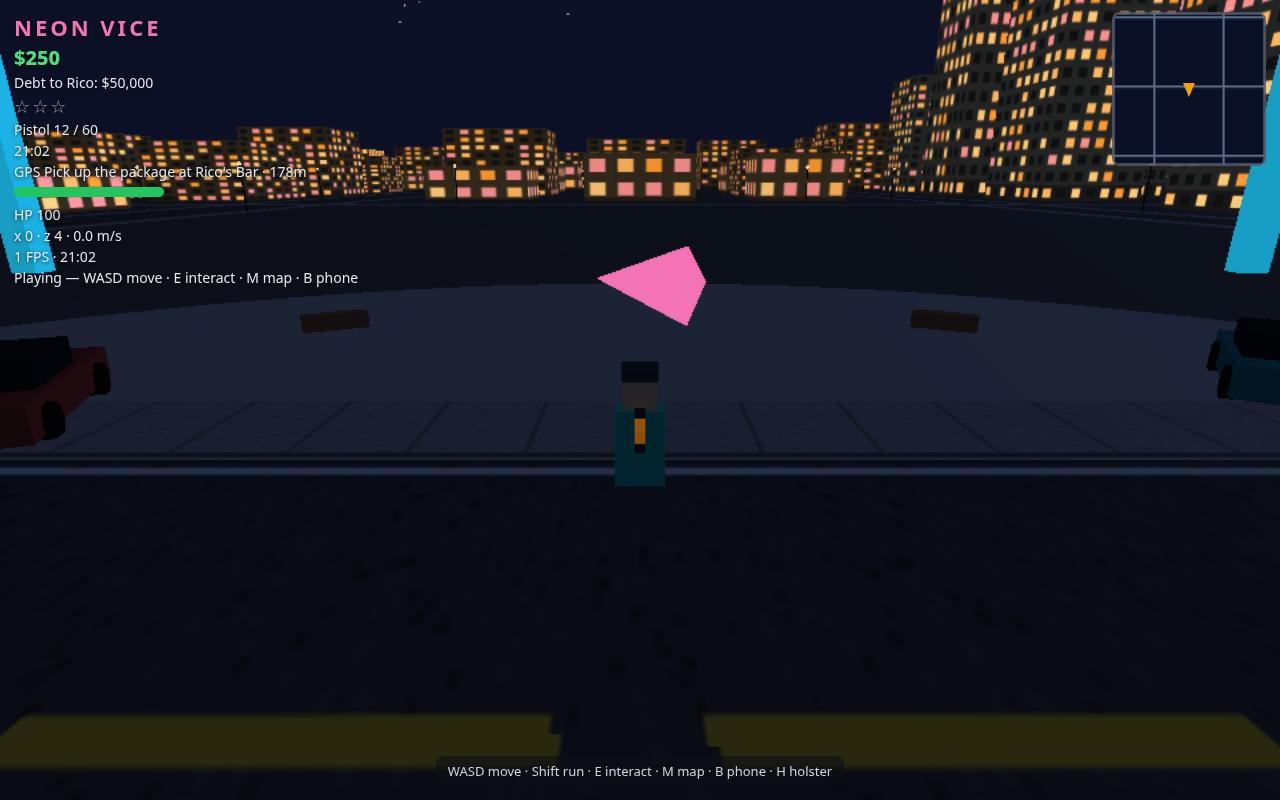
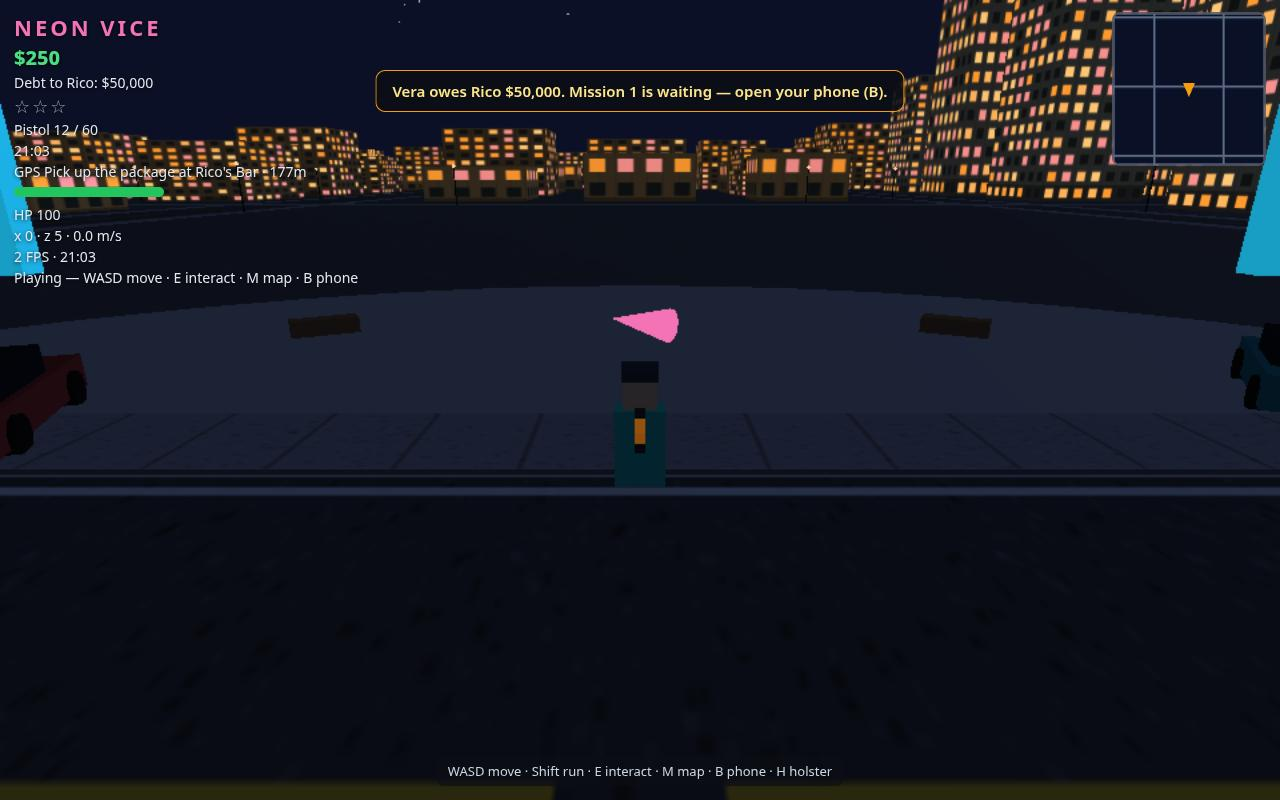
Builder E: fix mission-5 race trap, shop ammo at full reserve, touch hint, GPS arrow
- Mission 5: checkpoints moved onto road-graph nodes
  (300,0)->(300,-360)->(-300,-360)->(-300,240): a clean rectangle of
  90-degree turns. Mid-block checkpoints made findPath pick the node
  behind the car, forcing U-turns that wedged it against building
  corners ((42,-16), then (318,-296)); 5/5 passes now (was 2/5).
- Vehicles: footprint collision (centre + nose + tail, r=1.0) and a
  collision-checked turn, so a car can never swing its nose into a
  wall and freeze — the (318,-296) wedge mechanism.
- Shops: ammo at a full reserve is refused with no charge; a partial
  reserve sells only the rounds that fit at a proportional price
  (ceil, never undercharged).
- Touch: startGame no longer un-hides the WASD hint on touch devices
  (class stays + body.touch-device CSS !important); HUD state line
  gets touch wording. Verified hidden at 390x844 and at wide-touch
  1024x768, still shown on desktop.
- GPS arrow: slim 12-segment cone (r=0.22, h=0.9) at y=2.7 instead of
  the giant 4-segment diamond (r=0.5, h=1.4).
- Harness: driveTo stops following stale legs once the live target
  moves; missions scenario exits the boat after mission 8 so mission
  9's on-foot runner works (was a pre-existing 12/13).
- Dossier screenshots retaken (GPS arrow changed).
- Regression: 12 missions 13/13, 0 console errors; build exit 0.

diff --git a/game/src/vehicles.js b/game/src/vehicles.js
@@ -160,6 +160,25 @@ export function createVehicles(scene, world) {
     return best;
   }
 
+  // Car collision: the old single-point check (centre, r=1.4) let the car's
+  // nose/tail (2.3 m from the centre) penetrate a building face, so a car
+  // could sit with its centre in a free pocket 1-2 m from a building corner
+  // — e.g. the warehouse SE corner at (42,-16) — where every forward move
+  // rammed the wall and every reverse+steer arc clipped the corner, and the
+  // car could not escape (mission 5 wedge, re-tester 1/3 runs). Check the
+  // footprint instead: centre + nose + tail, each r=1.0 (the car's half
+  // width). The car now bumps while its body is still clear of the wall,
+  // so reversing out is always possible. Boats keep the water-rect check.
+  function carCollides(x, z, heading) {
+    if (!world.collides) return false;
+    const sx = Math.sin(heading);
+    const sz = Math.cos(heading);
+    if (world.collides(x, z, 1.0)) return true;
+    if (world.collides(x + sx * 1.7, z + sz * 1.7, 1.0)) return true;
+    if (world.collides(x - sx * 1.7, z - sz * 1.7, 1.0)) return true;
+    return false;
+  }
+
   function driveVehicle(v, input, dt) {
     const isBoat = v.kind === 'boat';
     const accel = isBoat ? v.accel : v.accel;
@@ -171,14 +190,24 @@ export function createVehicles(scene, world) {
     // Same sign as on foot (player.js): A / turn +1 raises the heading,
     // which turns the car to screen-left. (Was inverted: cars steered away
     // from the target and could never complete a driven mission.)
-    v.heading += steer * (isBoat ? 1.1 : 1.9) * dt;
+    // Rotation is collision-checked too: an unchecked turn can swing the
+    // nose/tail INTO a wall, after which every small translation step keeps
+    // a check point inside the collider zone and the car freezes in place
+    // (mission-5 wedge at (318,-296): nose 0.4 m from the warehouse face,
+    // no step out accepted). If the turn would put a check point inside a
+    // collider, keep the old heading — the car can still reverse out and
+    // turn once clear. Boats skip this (water-rect check below).
+    const newHeading = v.heading + steer * (isBoat ? 1.1 : 1.9) * dt;
+    if (isBoat || !world.collides || !carCollides(v.mesh.position.x, v.mesh.position.z, newHeading)) {
+      v.heading = newHeading;
+    }
     const nx = v.mesh.position.x + Math.sin(v.heading) * v.speed * dt;
     const nz = v.mesh.position.z + Math.cos(v.heading) * v.speed * dt;
     if (isBoat) {
       const w = CONFIG.water;
       v.mesh.position.x = Math.max(w.x0 + 3, Math.min(w.x1 - 3, nx));
       v.mesh.position.z = Math.max(w.z0 + 3, Math.min(w.z1 - 3, nz));
-    } else if (world.collides && world.collides(nx, nz, 1.4)) {
+    } else if (world.collides && carCollides(nx, nz, v.heading)) {
       v.speed *= -0.25; // bump: kill speed, small bounce
     } else {
       const clamped = world.clamp(nx, nz);

diff --git a/game/src/shops.js b/game/src/shops.js
@@ -74,16 +74,32 @@ export function createShops(scene, ctx) {
       const shop = SHOPS.find((s) => s.id === shopId);
       const item = shop && shop.items.find((i) => i.id === itemId);
       if (!item) return { ok: false, message: 'No such item.' };
-      if (ctx.getMoney() < item.price) return { ok: false, message: 'Not enough cash.' };
       if (itemId === 'smg' && ctx.combat.weapons.smg.owned) return { ok: false, message: 'You already own the SMG.' };
       // BUG-4: validate ownership BEFORE taking money. Buying ammo for a
       // weapon Vera does not own used to charge $150 and return ok:true.
       if (itemId === 'smgAmmo' && !ctx.combat.weapons.smg.owned) return { ok: false, message: 'You don\'t own an SMG yet — buy the SMG first.' };
       if (itemId === 'pistolAmmo' && !ctx.combat.weapons.pistol.owned) return { ok: false, message: 'You don\'t own a pistol.' };
+      // Ammo is sold by the pack but the reserve has a cap: buying a full
+      // pack at a full reserve used to charge $150 for +0 rounds. Refuse a
+      // full reserve outright; otherwise sell only the rounds that fit, at
+      // a proportional price (rounded up, never undercharged). Money is
+      // only taken for rounds actually received.
+      const ammoPack = { pistolAmmo: { kind: 'pistol', amount: 24 }, smgAmmo: { kind: 'smg', amount: 60 } }[itemId];
+      if (ammoPack) {
+        const w = ctx.combat.weapons[ammoPack.kind];
+        const room = w.reserveMax - w.reserve;
+        if (room <= 0) return { ok: false, message: `${w.name} ammo is full (${w.reserve}/${w.reserveMax}) — nothing bought, no charge.` };
+        const take = Math.min(ammoPack.amount, room);
+        const price = Math.ceil((item.price * take) / ammoPack.amount);
+        if (ctx.getMoney() < price) return { ok: false, message: 'Not enough cash.' };
+        ctx.spendMoney(price);
+        ctx.combat.buyAmmo(ammoPack.kind, take);
+        ctx.audio.cash();
+        return { ok: true, message: `Bought ${take} ${w.name} rounds for $${price} (reserve ${w.reserve}/${w.reserveMax}).` };
+      }
+      if (ctx.getMoney() < item.price) return { ok: false, message: 'Not enough cash.' };
       ctx.spendMoney(item.price);
       if (itemId === 'smg') ctx.combat.buyWeapon('smg');
-      else if (itemId === 'pistolAmmo') ctx.combat.buyAmmo('pistol', 24);
-      else if (itemId === 'smgAmmo') ctx.combat.buyAmmo('smg', 60);
       else if (item.color !== undefined) ctx.player.setJacket(item.color);
       ctx.audio.cash();
       return { ok: true, message: `Bought ${item.name} for $${item.price}.` };

diff --git a/game/src/main.js b/game/src/main.js
@@ -110,9 +110,13 @@ let fpsFrames = 0;
 let fpsWallStart = 0;
 let fpsShown = 0;
 
-// GPS arrow: a cone floating above Vera, pointing at the current target.
+// GPS arrow: a small slim cone floating just above Vera, pointing at the
+// current target. The old one (r=0.5, h=1.4, 4 segments) was as big as
+// Vera and read as a pink diamond/kite — its square cross-section looked
+// like a diamond from the chase camera and its direction was unreadable.
+// Slim + round (12 segments) + half the size reads as an arrowhead.
 const gpsArrow = new THREE.Mesh(
-  new THREE.ConeGeometry(0.5, 1.4, 4),
+  new THREE.ConeGeometry(0.22, 0.9, 12),
   new THREE.MeshBasicMaterial({ color: 0xf472b6 }),
 );
 gpsArrow.rotation.x = Math.PI / 2;
@@ -217,8 +221,17 @@ function startGame(fromSave) {
   state = 'playing';
   startPanel.classList.add('hidden');
   // HUD only exists while playing (BUG polish 8): it sat behind the title.
-  for (const id of ['hud', 'minimap', 'hudHint']) document.getElementById(id)?.classList.remove('hidden');
-  hudState.textContent = 'Playing — WASD move · E interact · M map · B phone';
+  // The keyboard hint is keyboard-only: on a touch device it must stay
+  // hidden (class AND the body.touch-device CSS rule), or the WASD bar
+  // shows on phones — the old code un-hid it unconditionally, and the
+  // width-only media query was the only thing hiding it (a wide touch
+  // viewport showed it). The HUD state line gets touch wording too.
+  const isTouch = document.body.classList.contains('touch-device');
+  for (const id of ['hud', 'minimap']) document.getElementById(id)?.classList.remove('hidden');
+  if (!isTouch) document.getElementById('hudHint')?.classList.remove('hidden');
+  hudState.textContent = isTouch
+    ? 'Playing — left stick to move · buttons to act'
+    : 'Playing — WASD move · E interact · M map · B phone';
   audio.unlock();
   ui.setMoney(money);
   ui.toast(fromSave ? 'Save loaded. Welcome back, Vera.' : 'Vera owes Rico $50,000. Mission 1 is waiting — open your phone (B).', 5000);
@@ -474,7 +487,7 @@ function updateHud(dt) {
     const d = Math.hypot(p.x - target.x, p.z - target.z);
     ui.setGps(d, gps ? gps.name : (missions.currentStage()?.text || 'Target'));
     gpsArrow.visible = true;
-    gpsArrow.position.set(p.x, 3.2, p.z);
+    gpsArrow.position.set(p.x, 2.7, p.z);
     // Cone points +Y by default; order YXZ with X=90° points it along the
     // heading (sin ang, 0, cos ang) toward the target.
     gpsArrow.rotation.order = 'YXZ';

diff --git a/tests/playtest.js b/tests/playtest.js
@@ -151,6 +151,12 @@ async function driveTo(page, x, z, timeout = 90000, opts = {}) {
     // take ~290 game-seconds, over its 150 s limit.
     const legOk = await driveLeg(page, lx, lz, Math.max(20000, timeout - (Date.now() - t0)), i === legs.length - 1, opts.doneCheck);
     if (!legOk) return false;
+    // The live target may already have moved on: a race checkpoint triggers
+    // at 12 m while the driver is still mid-route, so the remaining legs
+    // point at a stale target and the driver U-turns / wedges chasing it
+    // (mission 5 runs 1/3: checkpoint hit, objective already 4/4, yet the
+    // drive timed out on stale legs). Stop as soon as the target is stale.
+    if (opts.doneCheck && await opts.doneCheck()) return true;
     if (Date.now() - t0 > timeout) return false;
   }
   return true;
@@ -636,6 +642,12 @@ async function main() {
               if (tgt) {
                 ok = await driveTo(page, tgt[0], tgt[1], 150000, { direct: true, doneCheck: targetMoved(page, tgt[0], tgt[1]) });
                 note = ok ? 'sailed to north bay' : 'boat drive failed';
+                // Exit the boat after the sail: the next mission starts on
+                // foot, and a driver left in the boat is clamped to the
+                // water rect, so mission 9's on-foot goto runner times out
+                // (pre-existing 12/13 in the re-tester's baseline too — a
+                // human player presses E here; the harness must do the same).
+                if (ok) { await pressKey(page, 'KeyE'); await sleep(400); }
               } else note = 'no sail target';
             } else note = 'could not board boat';
           } else {

diff --git a/game/src/missions.js b/game/src/missions.js
@@ -51,8 +51,19 @@ export const MISSION_DEFS = [
     reward: 1500,
     stages: [{
       type: 'race', timeLimit: 150,
+      // Checkpoints sit ON road-graph nodes (intersections), not mid-block:
+      // the driver triggers a checkpoint at 12 m while still approaching
+      // it, and findPath then starts the next leg from the nearest node —
+      // a mid-block checkpoint (old cp1 (0,0), old cp2 (300,-300)) flips
+      // that node BEHIND the car, forcing a 180-degree U-turn that swings
+      // the car off the road into a building corner: (42,-16) in the old
+      // route, (318,-296) in the (300,-300) route (re-tester + Builder E
+      // 5x run: 2/5). Node-aligned checkpoints make every transition
+      // "continue straight, then a 90-degree left turn" — a clean
+      // rectangle: east along z=0, north along x=300, west along z=-360,
+      // south along x=-300 to the finish.
       checkpoints: [
-        { x: 0, z: 0 }, { x: 300, z: -300 }, { x: -300, z: -300 }, { x: 0, z: 300 },
+        { x: 300, z: 0 }, { x: 300, z: -360 }, { x: -300, z: -360 }, { x: -300, z: 240 },
       ],
       text: 'Hit all 4 checkpoints before the clock runs out',
     }],

diff --git a/game/index.html b/game/index.html
@@ -17,7 +17,7 @@
   #hudHpWrap { width: 150px; height: 10px; background: rgba(255,255,255,0.2); border-radius: 5px; overflow: hidden; margin: 6px 0 8px; }
   #hudHpBar { height: 100%; width: 100%; background: #22c55e; }
   #hud.hidden, #minimap.hidden, #hudHint.hidden { display: none; }
-  body.touch-device #hudHint { display: none; }
+  body.touch-device #hudHint { display: none !important; }
   #minimap { position: fixed; right: 14px; top: 12px; z-index: 5; width: 150px; height: 150px; border: 2px solid rgba(255,255,255,0.25); border-radius: 8px; background: rgba(11,16,38,0.8); }
   #hudMsg { position: fixed; left: 50%; top: 70px; transform: translateX(-50%); z-index: 6; background: rgba(11,14,20,0.85); color: #fde68a; border: 1px solid #f59e0b; border-radius: 10px; padding: 10px 16px; font-size: 15px; font-weight: 600; opacity: 0; transition: opacity 0.25s; pointer-events: none; max-width: 90vw; text-align: center; }
   #hudMsg.show { opacity: 1; }
